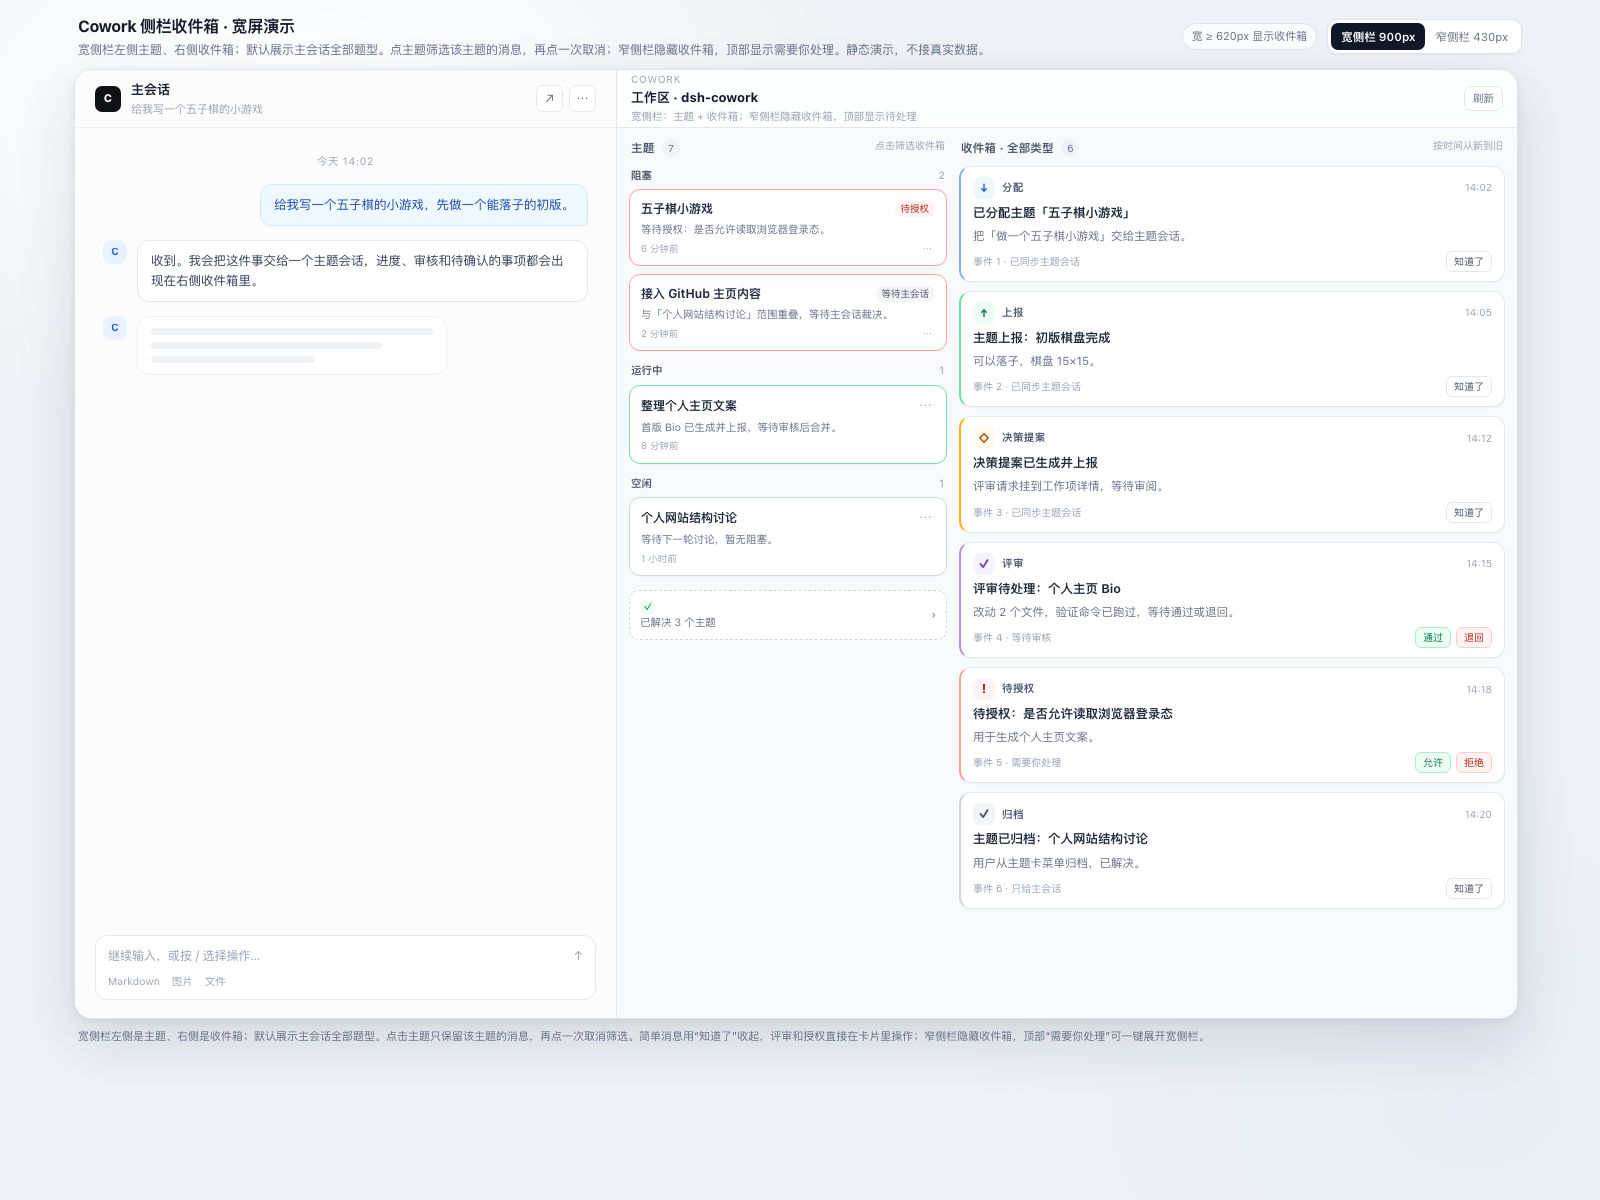
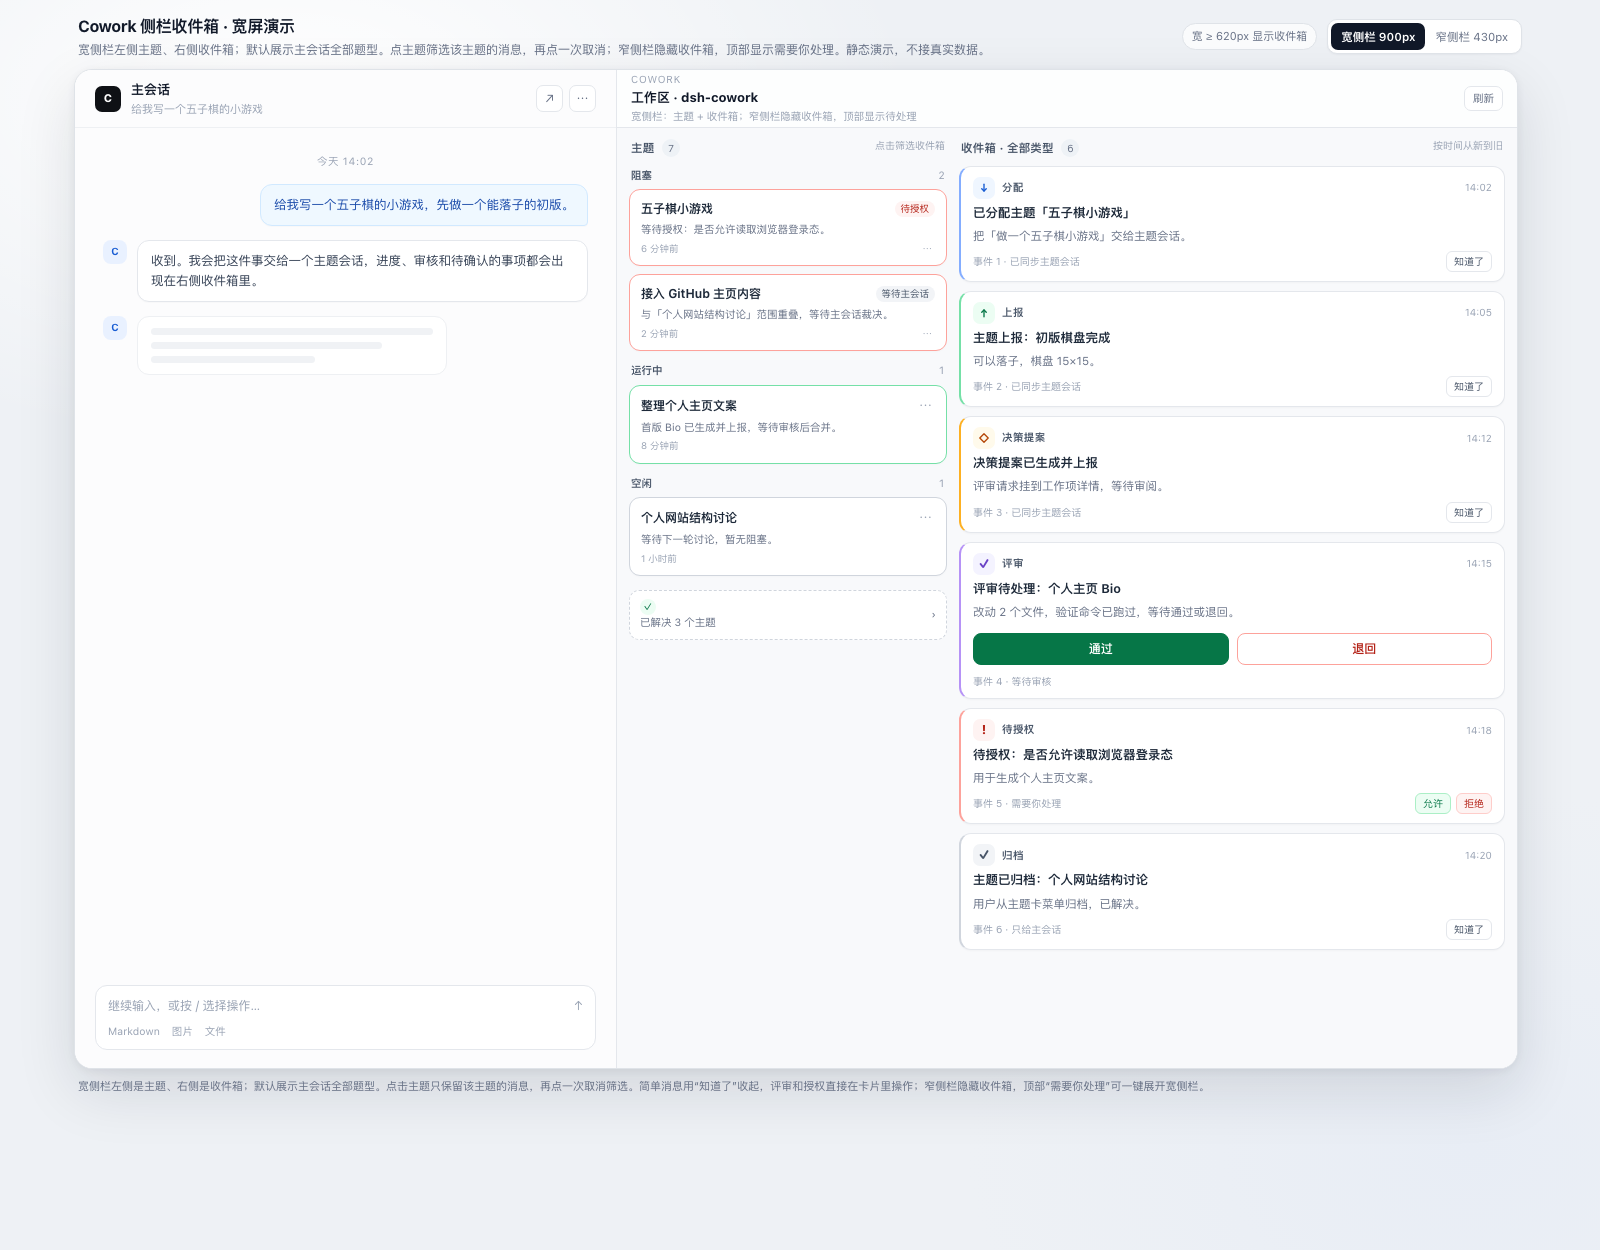
docs(topic-reminders): 放大收件箱审核按钮
把评审的通过/退回从卡片底部小按钮移到摘要下方，改为等宽 32px 主按钮；完成后隐藏按钮并显示结果。补宽、窄、筛选截图。

diff --git a/docs/discussion/topic-reminder-demo.html b/docs/discussion/topic-reminder-demo.html
@@ -79,7 +79,7 @@
   .app {
     display: flex;
     width: 1444px;
-    height: 950px;
+    height: 1000px;
     overflow: hidden;
     border: 1px solid #dfe3e8;
     border-radius: 18px;
@@ -469,6 +469,33 @@
   .reminder-time { font-size: 10px; color: var(--soft); white-space: nowrap; }
   .reminder-title { font-size: 12.5px; font-weight: 650; color: #1d2939; line-height: 1.45; }
   .reminder-summary { font-size: 11.5px; color: var(--muted); line-height: 1.5; }
+  .review-actions {
+    display: flex;
+    gap: 8px;
+    margin: 8px 0 2px;
+  }
+  .review-btn {
+    flex: 1 1 0;
+    min-height: 32px;
+    border-radius: 8px;
+    font: inherit;
+    font-size: 12px;
+    font-weight: 650;
+    cursor: pointer;
+  }
+  .review-btn.pass {
+    border: 1px solid var(--green);
+    background: var(--green);
+    color: #fff;
+  }
+  .review-btn.pass:hover { background: #05603a; border-color: #05603a; }
+  .review-btn.return {
+    border: 1px solid #fda29b;
+    background: #fff;
+    color: var(--red);
+  }
+  .review-btn.return:hover { background: var(--red-soft); }
+  .review-btn:disabled { opacity: .5; cursor: not-allowed; }
   .reminder-foot {
     margin-top: 2px;
     display: flex;
@@ -508,6 +535,7 @@
   }
   .reminder-card.is-done .card-status { display: inline-flex; }
   .reminder-card.is-done .reminder-actions .act { display: none; }
+  .reminder-card.is-done .review-actions { display: none; }
   .empty-filter {
     display: none;
     margin: 10px 2px;
@@ -771,12 +799,12 @@
               </div>
               <div class="reminder-title">评审待处理：个人主页 Bio</div>
               <div class="reminder-summary">改动 2 个文件，验证命令已跑过，等待通过或退回。</div>
+              <div class="review-actions">
+                <button type="button" class="review-btn pass" data-action="pass">通过</button>
+                <button type="button" class="review-btn return" data-action="return">退回</button>
+              </div>
               <div class="reminder-foot">
                 <span>事件 4 · 等待审核</span>
-                <span class="reminder-actions">
-                  <button type="button" class="act allow" data-action="pass">通过</button>
-                  <button type="button" class="act deny" data-action="return">退回</button>
-                </span>
               </div>
               <span class="card-status">已通过</span>
             </article>
